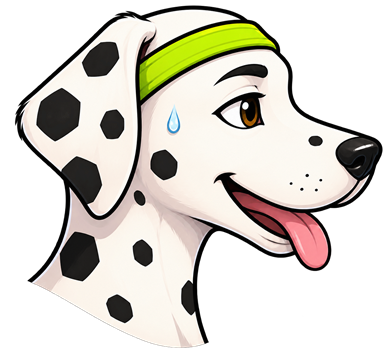
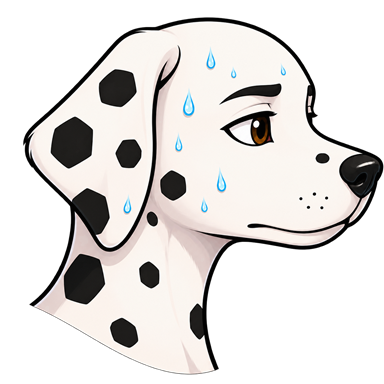
Refine workout completion feedback

diff --git a/app/player/player.css b/app/player/player.css
@@ -2700,8 +2700,27 @@
   color: #172f27;
 }
 
-.today-plan-hero__check-in .today-checkin__targets {
+.workout-outcome-choices {
+  min-width: 0;
+  display: block;
+  margin: 0;
+  padding: 0;
+  border: 0;
+}
+
+.workout-outcome-choices legend {
+  width: 100%;
+  margin: 0 0 0.55rem;
+  padding: 0;
+  color: inherit;
+  font-size: 0.9rem;
+  font-weight: 950;
+}
+
+.workout-outcome-choices__options {
+  display: grid;
   grid-template-columns: repeat(3, minmax(0, 1fr));
+  gap: 0.55rem;
 }
 
 .today-plan-hero__check-in .workout-note {
@@ -2710,13 +2729,14 @@
 }
 
 .today-plan-hero__check-in .workout-outcome-choice {
+  position: relative;
   min-width: 0;
   min-height: 6.7rem;
   display: grid;
   align-content: end;
   justify-items: center;
   gap: 0.25rem;
-  overflow: hidden;
+  overflow: visible;
   padding: 0.3rem 0.2rem 0.55rem;
   border-color: #a9b9b2;
   background: #edf2ef;
@@ -2725,6 +2745,7 @@
 }
 
 .today-plan-hero__check-in .workout-outcome-choice[aria-pressed="true"] {
+  z-index: 2;
   border-color: #54700d;
   background: #d9f47a;
   color: #203500;
@@ -2735,13 +2756,45 @@
   outline-color: #315ec8;
 }
 
-.today-plan-hero__check-in .workout-outcome-choice img {
-  width: 4.2rem;
-  height: 3.8rem;
-  object-fit: contain;
+.workout-outcome-choice__image-frame {
+  width: 100%;
+  height: 4rem;
+  display: grid;
+  place-items: end center;
+  pointer-events: none;
 }
 
-.today-plan-hero__check-in .workout-outcome-choice span {
+.workout-outcome-choice__image {
+  width: 3.4rem;
+  height: 3.4rem;
+  transform: scale(0.72);
+  object-fit: contain;
+  transition: transform 180ms ease;
+}
+
+.workout-outcome-choice[data-outcome="goal"] .workout-outcome-choice__image {
+  transform: scale(0.78);
+}
+
+.workout-outcome-choice[data-outcome="reach"] .workout-outcome-choice__image {
+  transform: scale(1.07);
+}
+
+.workout-outcome-choice[aria-pressed="true"] .workout-outcome-choice__image {
+  transform: scale(1);
+}
+
+.workout-outcome-choice[data-outcome="goal"][aria-pressed="true"]
+  .workout-outcome-choice__image {
+  transform: scale(1.08);
+}
+
+.workout-outcome-choice[data-outcome="reach"][aria-pressed="true"]
+  .workout-outcome-choice__image {
+  transform: scale(1.42);
+}
+
+.today-plan-hero__check-in .workout-outcome-choice > span:last-child {
   font-size: 0.78rem;
   font-weight: 950;
 }

diff --git a/app/components/WorkoutOutcomeChoices.tsx b/app/components/WorkoutOutcomeChoices.tsx
@@ -37,23 +37,32 @@ export function WorkoutOutcomeChoices({
   className?: string;
 }) {
   return (
-    <div
-      className={className}
-      role="group"
-      aria-label={playerExperienceCopy.focusedToday.outcomeGroup}
-    >
-      {choices.map((choice) => (
-        <button
-          className="workout-outcome-choice"
-          type="button"
-          key={choice.value}
-          aria-pressed={value === choice.value}
-          onClick={() => onChange(choice.value)}
-        >
-          <Image src={choice.image} alt="" width={72} height={66} unoptimized />
-          <span>{choice.label}</span>
-        </button>
-      ))}
-    </div>
+    <fieldset className={`workout-outcome-choices ${className ?? ""}`}>
+      <legend>{playerExperienceCopy.focusedToday.finishPrompt}</legend>
+      <div className="workout-outcome-choices__options">
+        {choices.map((choice) => (
+          <button
+            className="workout-outcome-choice"
+            type="button"
+            key={choice.value}
+            data-outcome={choice.value}
+            aria-pressed={value === choice.value}
+            onClick={() => onChange(choice.value)}
+          >
+            <span className="workout-outcome-choice__image-frame">
+              <Image
+                className="workout-outcome-choice__image"
+                src={choice.image}
+                alt=""
+                width={80}
+                height={80}
+                unoptimized
+              />
+            </span>
+            <span>{choice.label}</span>
+          </button>
+        ))}
+      </div>
+    </fieldset>
   );
 }

diff --git a/app/team-canvas/components/FeelTracks.tsx b/app/team-canvas/components/FeelTracks.tsx
@@ -1,8 +1,3 @@
-"use client";
-
-import Image from "next/image";
-import type { CSSProperties } from "react";
-
 import { teamCanvasCopy } from "../content";
 
 export function FeelTracks({
@@ -62,35 +57,16 @@ function FeelTrack({
         <strong>{name}</strong>
         <output>{labels[value - 1]}</output>
       </span>
-      <span
-        className="tc-feel-track__control"
-        style={
-          { "--feel-position": `${((value - 1) / 6) * 100}%` } as CSSProperties
-        }
-      >
-        <Image
-          className="tc-feel-track__zoomi"
-          src={
-            name === "Effort"
-              ? "/workouts/zoomi-did-it.png"
-              : "/workouts/zoomi-almost.png"
-          }
-          alt=""
-          width={38}
-          height={35}
-          unoptimized
-        />
-        <input
-          type="range"
-          min="1"
-          max="7"
-          step="1"
-          value={value}
-          aria-label={name}
-          aria-valuetext={labels[value - 1]}
-          onChange={(event) => onChange(Number(event.target.value))}
-        />
-      </span>
+      <input
+        type="range"
+        min="1"
+        max="7"
+        step="1"
+        value={value}
+        aria-label={name}
+        aria-valuetext={labels[value - 1]}
+        onChange={(event) => onChange(Number(event.target.value))}
+      />
       <span className="tc-feel-track__ends" aria-hidden="true">
         <span>{low}</span>
         <span>{high}</span>

diff --git a/app/team-canvas/team-canvas.css b/app/team-canvas/team-canvas.css
@@ -244,9 +244,7 @@
 }
 
 .tc-targets {
-  display: grid;
-  grid-template-columns: repeat(3, minmax(0, 1fr));
-  gap: 0.55rem;
+  display: block;
 }
 
 .tc-checkin .workout-note {
@@ -273,14 +271,8 @@
   align-content: end;
   justify-items: center;
   gap: 0.25rem;
-  overflow: hidden;
+  overflow: visible;
   padding: 0.3rem 0.2rem 0.55rem;
-}
-
-.tc-targets .workout-outcome-choice img {
-  width: 4.2rem;
-  height: 3.8rem;
-  object-fit: contain;
 }
 
 .tc-targets button[aria-pressed="true"] {
@@ -309,9 +301,9 @@
 
 .tc-feel-tracks {
   display: grid;
-  gap: 0.75rem;
+  gap: 0.6rem;
   margin: 0;
-  padding: 0.85rem;
+  padding: 0.65rem 0.75rem;
   border: 1px solid var(--tc-line);
   border-radius: 1rem;
   background: #fafaf6;
@@ -348,29 +340,10 @@
 
 .tc-feel-track input[type="range"] {
   width: 100%;
-  height: 1.55rem;
+  height: 1rem;
   margin: 0;
   accent-color: var(--tc-green-dark);
   cursor: pointer;
-}
-
-.tc-feel-track__control {
-  position: relative;
-  display: block;
-  padding-top: 1rem;
-}
-
-.tc-feel-track__zoomi {
-  position: absolute;
-  z-index: 1;
-  top: -0.65rem;
-  left: clamp(1rem, var(--feel-position), calc(100% - 1rem));
-  width: 2.1rem;
-  height: 2rem;
-  transform: translateX(-50%);
-  object-fit: contain;
-  pointer-events: none;
-  filter: drop-shadow(0 2px 2px rgb(0 0 0 / 15%));
 }
 
 .tc-feel-track__ends {

diff --git a/app/player/components/FocusedToday.test.tsx b/app/player/components/FocusedToday.test.tsx
@@ -90,11 +90,11 @@ describe("focused Today components", () => {
 
     fireEvent.click(screen.getByRole("button", { name: "Start workout" }));
     expect(screen.getByRole("button", { name: "Save workout" })).toBeVisible();
-    const choices = within(
-      screen.getByRole("group", {
-        name: "How much of the workout did you finish?",
-      }),
-    ).getAllByRole("button");
+    expect(screen.getByText("Did you finish?")).toBeVisible();
+    const outcomeGroup = screen.getByRole("group", {
+      name: "Did you finish?",
+    });
+    const choices = within(outcomeGroup).getAllByRole("button");
     expect(choices.map((choice) => choice.textContent)).toEqual([
       "Almost…",
       "Did it!",
@@ -104,6 +104,9 @@ describe("focused Today components", () => {
     expect(choices[1]).toHaveAttribute("aria-pressed", "true");
     expect(choices[0]).toHaveAttribute("aria-pressed", "false");
     expect(choices[2]).toHaveAttribute("aria-pressed", "false");
+    expect(
+      outcomeGroup.querySelectorAll(".workout-outcome-choice__image"),
+    ).toHaveLength(3);
     expect(
       screen.queryByRole("button", { name: /coach-approved alternative/i }),
     ).not.toBeInTheDocument();

diff --git a/app/team-canvas/components/FeelTracks.test.tsx b/app/team-canvas/components/FeelTracks.test.tsx
@@ -23,7 +23,7 @@ describe("FeelTracks", () => {
     expect(screen.getByRole("slider", { name: "Tiredness" })).toHaveValue("3");
     expect(screen.getByText("😅 Hard")).toBeInTheDocument();
     expect(screen.getByText("🙂 A little tired")).toBeInTheDocument();
-    expect(container.querySelectorAll(".tc-feel-track__zoomi")).toHaveLength(2);
+    expect(container.querySelectorAll(".tc-feel-track__zoomi")).toHaveLength(0);
 
     fireEvent.change(screen.getByRole("slider", { name: "Effort" }), {
       target: { value: "5" },

diff --git a/app/player/content.ts b/app/player/content.ts
@@ -77,7 +77,7 @@ export const playerExperienceCopy = {
     retrying: "Trying again…",
     saveError: "That workout could not be saved. Please try again.",
     actionError: "That could not be saved. Please try again.",
-    outcomeGroup: "How much of the workout did you finish?",
+    finishPrompt: "Did you finish?",
     completedAsListed: "Did it!",
     finishedPart: "Almost…",
     addedExtra: "Extra!",

diff --git a/app/team-canvas/components/TeamCanvasToday.tsx b/app/team-canvas/components/TeamCanvasToday.tsx
@@ -130,7 +130,6 @@ export function TeamCanvasToday() {
 
         {expanded ? (
           <div className="tc-checkin">
-            <h2>{copy.formTitle}</h2>
             <WorkoutOutcomeChoices
               className="tc-targets"
               value={completion}

diff --git a/docs/WORKOUT_CHECKIN_CONTEXT_MANUAL_TEST.md b/docs/WORKOUT_CHECKIN_CONTEXT_MANUAL_TEST.md
@@ -6,16 +6,21 @@
 2. Confirm the only outcome choices are **Almost…**, **Did it!**, and **Extra!**,
    in that order. There is no numeric Goal/Reach choice or coach-approved
    alternative.
-3. Confirm **Did it!** is selected by default in the middle; each choice has a
-   distinct transparent Zoomi expression and remains readable in one row at
-   320 CSS pixels.
-4. Confirm Effort and Tiredness have a small Zoomi marker that follows the
-   native slider without blocking touch, keyboard, or screen-reader use.
-5. Open **Add a note**. Confirm the placeholder explains that the note is for
+3. Confirm **Did it!** is selected by default in the middle beneath **Did you
+   finish?** Each choice has a distinct transparent Zoomi expression and
+   remains readable in one row at 320 CSS pixels.
+4. Switch among all three choices. Confirm the selected head grows and the
+   other two shrink without shifting the cards or text. The visible head sizes
+   should match within each state.
+5. Confirm **Almost…** has a neutral closed mouth, no headband, a forward/down
+   ear, and several sweat drops.
+6. Confirm Effort and Tiredness remain slim native sliders with the current
+   emoji/value at upper right and no mascot image on either track.
+7. Open **Add a note**. Confirm the placeholder explains that the note is for
    the player and coach, and that the field stops at 500 characters.
-6. Save each outcome once with a short note. Confirm the modal closes, Today
+8. Save each outcome once with a short note. Confirm the modal closes, Today
    moves to its saved check-in state, and refresh preserves the result.
-7. Trigger a Team Lounge stamp error, return to Today, and start the scheduled
+9. Trigger a Team Lounge stamp error, return to Today, and start the scheduled
    workout. Confirm the stamp message never appears in the workout recorder.
 
 ## Normal and additional activity

diff --git a/docs/OPEN_DECISIONS.md b/docs/OPEN_DECISIONS.md
@@ -967,6 +967,10 @@ Momentum Alpha needs independent PWA install/offline behavior.
 - Decided: workout completion uses the compact ordered scale Almost / Did it /
   Extra, with Did it selected in the middle by default. The stored completion
   values remain partial / as listed / extra.
+- Decided: outcome art uses a stable three-column stage: unselected heads are
+  compact and the selected head enlarges without reflow. Effort and tiredness
+  remain slim native sliders; their text/emoji output carries the feedback,
+  without a second mascot treatment on the tracks.
 - Decided: a player concern reason is selected visibly, then sent with a separate
   confirmation action. Selecting a reason alone never submits it.
 
